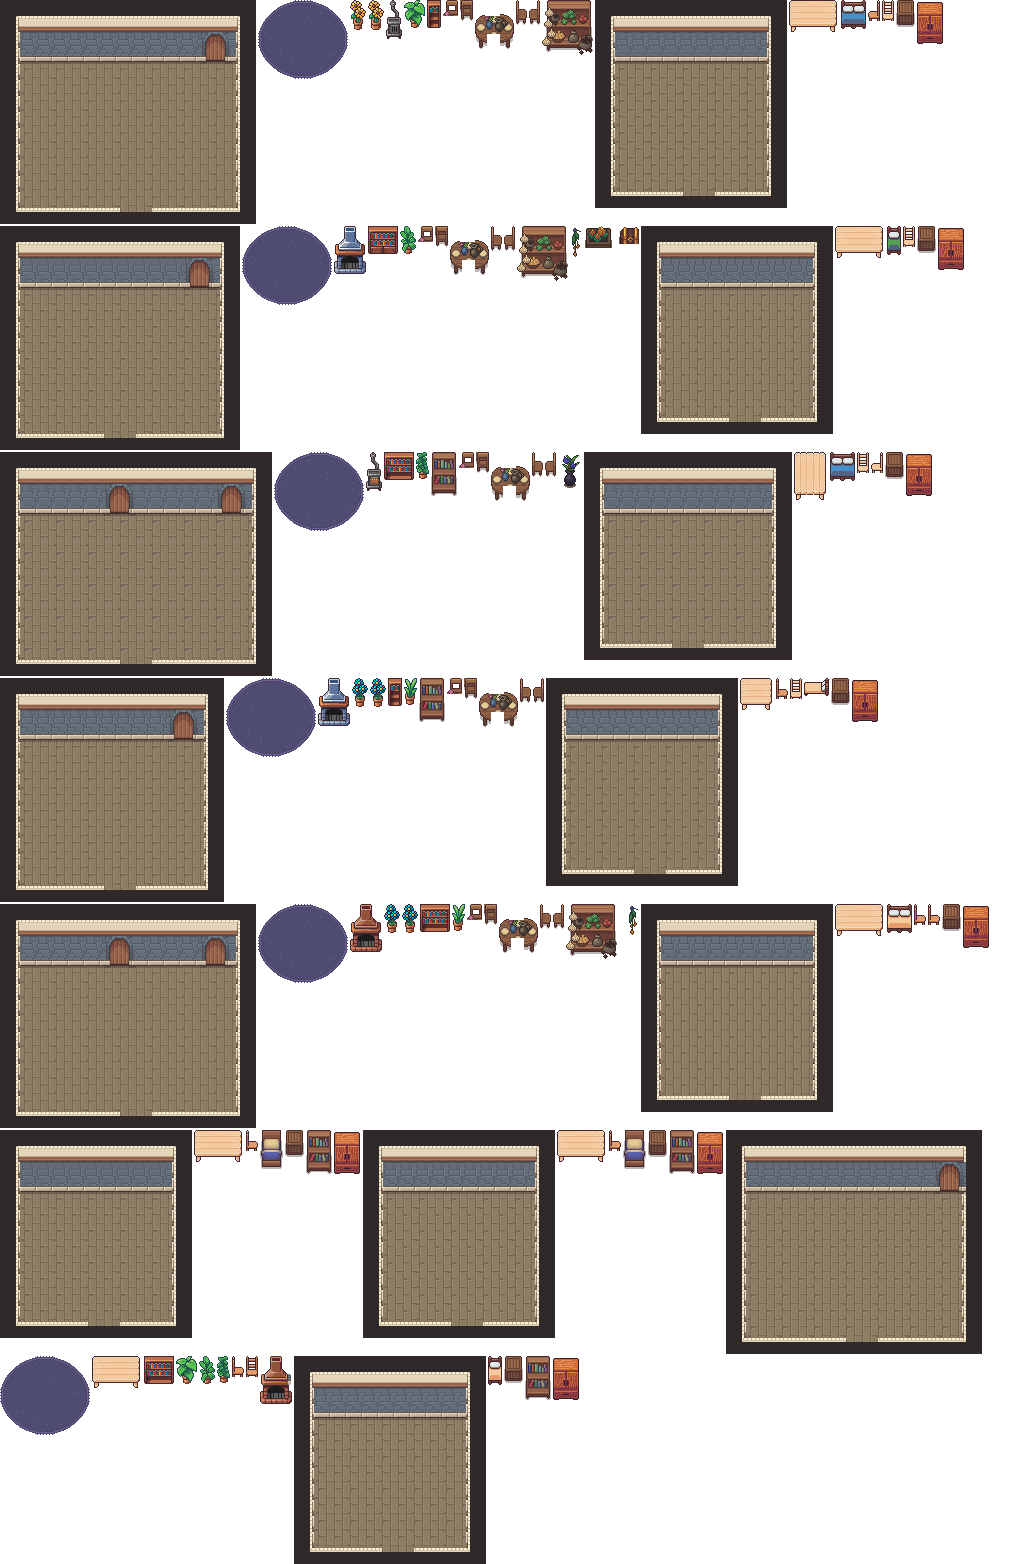
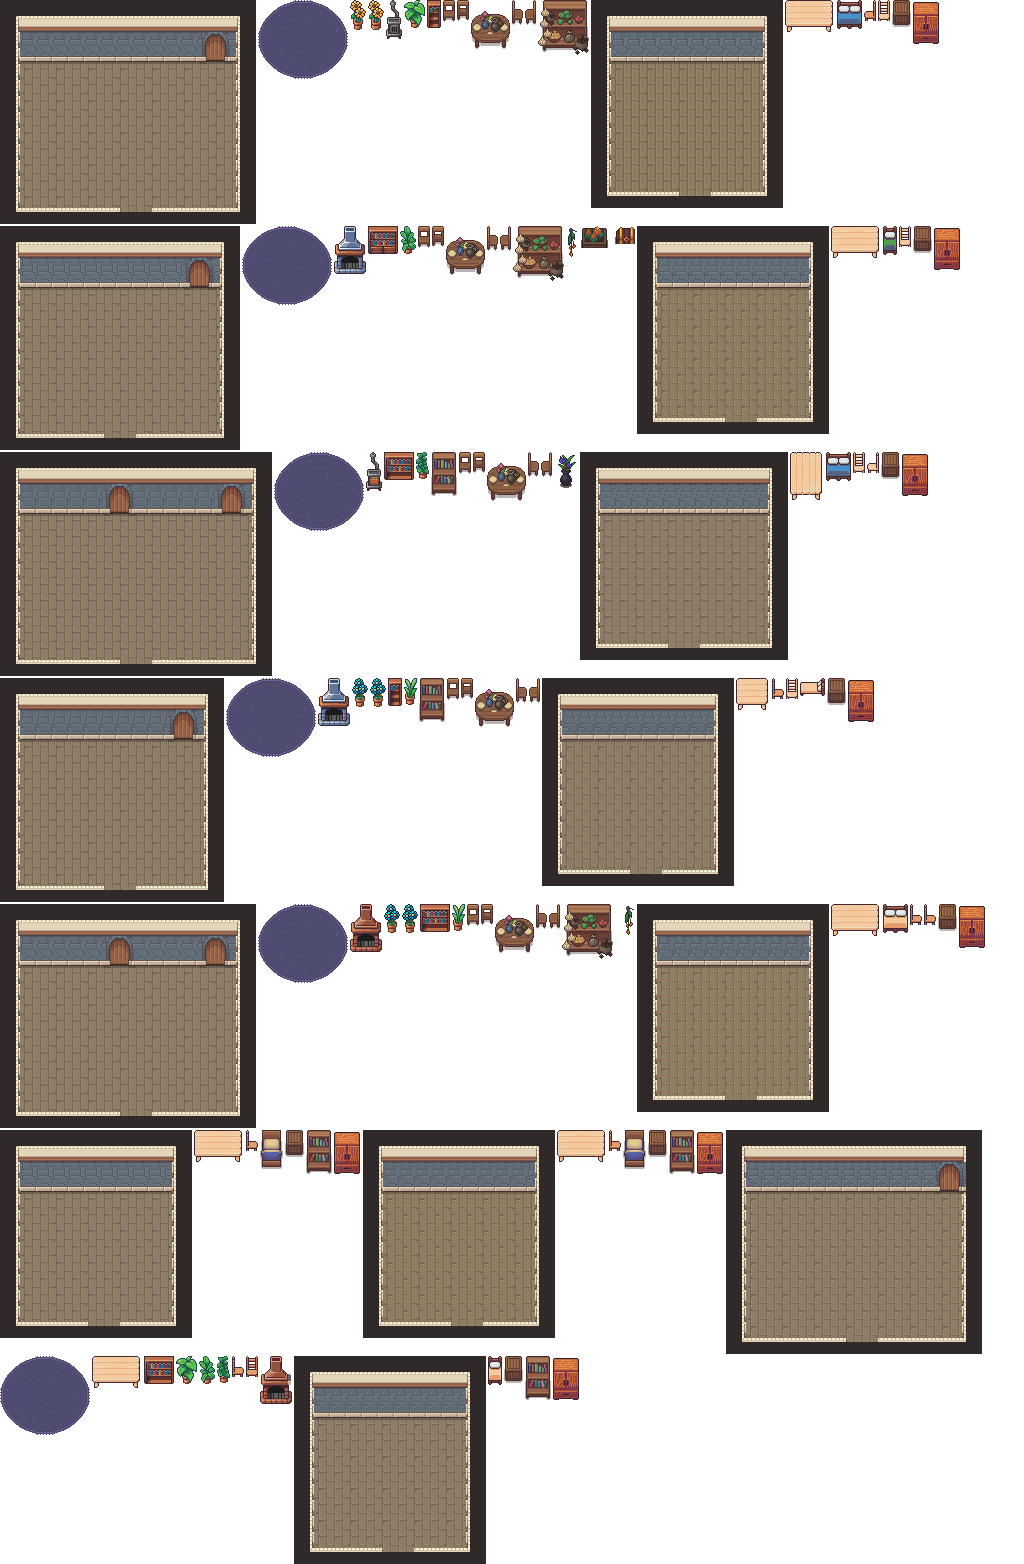
Fix independent Millwood dining table and chair crops
Use complete source chairs, keep flowers on the table, restore the hidden table apron, and preserve assembled artwork with explicit layer ordering. Test both assembled pixels and separated furniture.

diff --git a/js/millwood-interiors.js b/js/millwood-interiors.js
@@ -1,11 +1,11 @@
 /* Authored source crops, never inferred from collision rectangles at runtime. */
 async function prepareMillwoodInteriors() {
   const root = 'assets/interiors/millwood/';
-  const response = await fetch(root + 'layouts.json?v=20260923-millwood1');
+  const response = await fetch(root + 'layouts.json?v=20260923-millwood2');
   if (!response.ok) throw new Error('Millwood layouts: ' + response.status);
   const layouts = await response.json();
   const sheet = new Image();
-  sheet.src = root + 'layers.png?v=20260923-millwood1';
+  sheet.src = root + 'layers.png?v=20260923-millwood2';
   await sheet.decode();
   const cut = ([x,y,w,h]) => {
     const canvas = document.createElement('canvas');
@@ -27,7 +27,7 @@ async function prepareMillwoodInteriors() {
       n:o.name.replace(/^pack_/, 'Furniture ').replaceAll('-', ' '),
       editKey:'millwood:'+id+':'+index,
       x:o.x+o.w/2, y:o.y+o.h,
-      sy:o.flat?-1000:o.y+o.h,
+      sy:o.flat?-1000:(o.sortY??o.y+o.h),
       extractedCanvas:cut(o.rect), interiorFurniture:true, exactFurniture:true,
       moveBlocks:[], flatFurniture:o.flat, sourceRect:[o.x,o.y,o.w,o.h]
     }));

diff --git a/index.html b/index.html
@@ -328,7 +328,7 @@ window.addEventListener("unhandledrejection", function (e) {
 <script src="js/generated/media-5.js?v=1790049472"></script>
 <script src="js/generated/media-6.js?v=1790049472"></script>
 <script src="js/generated/media-7.js?v=1790049472"></script>
-<script src="js/millwood-interiors.js?v=20260923-millwood1"></script>
+<script src="js/millwood-interiors.js?v=20260923-millwood2"></script>
 <script src="js/generated/game-part-1.js?v=20260922-2012" onerror="(document.getElementById('bootMsg')||document.getElementById('bootmsg')).textContent='GAME PART 1 LOAD ERROR'"></script>
 <script src="js/generated/game-part-2.js?v=20260923-millwood1" onerror="(document.getElementById('bootMsg')||document.getElementById('bootmsg')).textContent='GAME PART 2 LOAD ERROR'"></script>
 <script src="js/generated/game-part-3.js?v=20260923-millwood1" onerror="(document.getElementById('bootMsg')||document.getElementById('bootmsg')).textContent='GAME PART 3 LOAD ERROR'"></script>

diff --git a/tests/millwood-pixels.py b/tests/millwood-pixels.py
@@ -21,7 +21,17 @@ for name, layout in layouts.items():
             image = Image.open(io.BytesIO(base64.b64decode(url.split(',')[1])))
             original.paste(image, (px-x,py-y))
     result = cut(layout['baseRect'])
-    for obj in layout['objects']:
+    for obj in sorted(layout['objects'], key=lambda o: -1000 if o['flat'] else o.get('sortY', o['y']+o['h'])):
         result.alpha_composite(cut(obj['rect']), (obj['x'],obj['y']))
     assert result.tobytes() == original.tobytes(), name
 print(f'PASS: all {len(layouts)} rooms match their original art pixel for pixel.')
+# A reassembled room alone cannot detect holes concealed by another object.
+for layout in layouts.values():
+    for obj in layout['objects']:
+        piece = cut(obj['rect'])
+        if obj['name'] == 'dining-table':
+            assert all(piece.getpixel((x,y))[3] == 255 for y in range(34,43) for x in range(12,25)), 'Incomplete table apron'
+        if obj['name'] == 'north-chair':
+            assert piece.size == (12,22), 'Incomplete north chair'
+            assert not any(r > 130 and b > 100 and g < 130 and a for r,g,b,a in piece.getdata()), 'Flower pixels attached to chair'
+print('PASS: separated dining tables have complete aprons; back chairs are complete and contain no flower pixels.')
